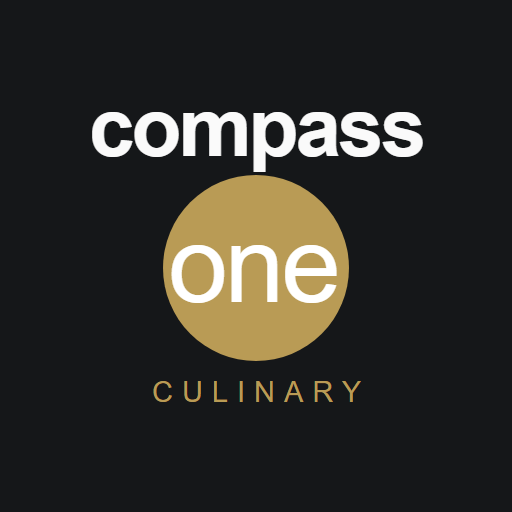
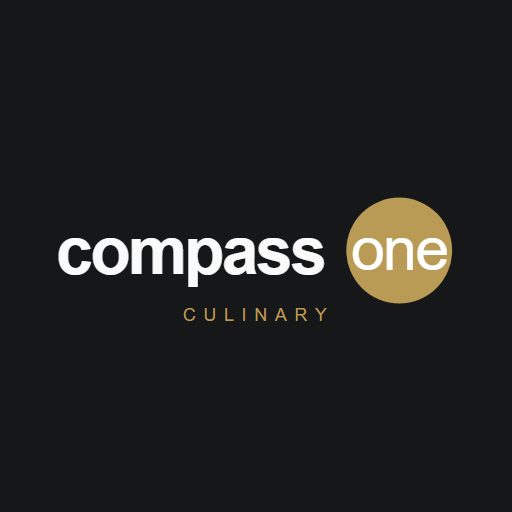
Fix installed app brand handoff

Changed region(s): [[0.0938, 0.2188, 0.9062, 0.7188], [0.4688, 0.7188, 0.7188, 0.7812], [0.2812, 0.7188, 0.4375, 0.7812]]

diff --git a/tests/browser/brand-entrance.spec.js b/tests/browser/brand-entrance.spec.js
@@ -155,3 +155,76 @@ test("mobile app and browser icon references decode at their declared sizes", as
     expect(icon.src).toContain("v=");
   }
 });
+
+for (const installedMode of ["standalone", "minimal-ui", "ios"]) {
+  test(`installed launch ${installedMode} reveals tools without a second logo`, async ({ page }) => {
+    await page.setViewportSize({ width: 390, height: 844 });
+    await page.addInitScript((mode) => {
+      if (mode === "ios") Object.defineProperty(navigator, "standalone", { value: true });
+      else {
+        const original = window.matchMedia.bind(window);
+        window.matchMedia = query => {
+          const result = original(query);
+          if (query.includes(`display-mode: ${mode}`)) Object.defineProperty(result, "matches", { value: true });
+          return result;
+        };
+      }
+    }, installedMode);
+    await page.goto("/", { waitUntil: "domcontentloaded" });
+    const entrance = page.getByTestId("brand-entrance");
+    await expect(entrance).toBeVisible();
+    expect(await entrance.locator("img, .brand-entrance__logo, .brand-entrance__backdrop").count()).toBe(0);
+    const positions = await page.evaluate(() => {
+      const animations = document.getAnimations();
+      animations.forEach(animation => { animation.pause(); animation.currentTime = 0; });
+      const top = document.querySelector('.brand-entrance__line--top');
+      const bottom = document.querySelector('.brand-entrance__line--bottom');
+      const start = { top: top.getBoundingClientRect().y, bottom: bottom.getBoundingClientRect().y };
+      animations.forEach(animation => { animation.currentTime = 300; });
+      const mid = { top: top.getBoundingClientRect().y, bottom: bottom.getBoundingClientRect().y };
+      const durations = animations.map(animation => animation.effect.getTiming().duration);
+      animations.forEach(animation => animation.play());
+      return { start, mid, durations };
+    });
+    expect(Math.abs(positions.start.top - positions.start.bottom)).toBeLessThan(1);
+    expect(positions.mid.top).toBeLessThan(positions.start.top);
+    expect(positions.mid.bottom).toBeGreaterThan(positions.start.bottom);
+    expect(positions.durations.length).toBeGreaterThan(0);
+    expect(positions.durations.every(duration => duration === 600)).toBe(true);
+    await expect(entrance).toHaveCount(0, { timeout: 1200 });
+    await expect(page.getByTestId("mobile-platform-intelligence")).toBeVisible();
+    await page.reload();
+    await expect(entrance).toHaveCount(0);
+  });
+}
+
+
+test("installed app icon preserves the approved horizontal logo composition", async ({ page }) => {
+  await page.emulateMedia({ reducedMotion: "reduce" });
+  await page.goto("/");
+  const comparison = await page.evaluate(async () => {
+    async function load(src) { const image = new Image(); image.src = src; await image.decode(); return image; }
+    const [source, actual] = await Promise.all([load('/brand/compass-one-culinary.svg'), load('/android-chrome-512x512.png')]);
+    const canvas = document.createElement('canvas'); canvas.width = canvas.height = 512;
+    const context = canvas.getContext('2d', { willReadFrequently: true });
+    context.fillStyle = '#151719'; context.fillRect(0, 0, 512, 512);
+    // The approved horizontal artwork is centered with 9% side padding; never restack its words.
+    const width = 420;
+    const height = width * source.naturalHeight / source.naturalWidth;
+    context.drawImage(source, (512 - width) / 2, (512 - height) / 2, width, height);
+    const expected = context.getImageData(0, 0, 512, 512).data;
+    context.clearRect(0, 0, 512, 512); context.drawImage(actual, 0, 0);
+    const rendered = context.getImageData(0, 0, 512, 512).data;
+    let difference = 0; let minX = 512, maxX = 0, minY = 512, maxY = 0;
+    for (let pixel = 0; pixel < rendered.length; pixel += 4) {
+      for (let channel = 0; channel < 3; channel++) difference += Math.abs(expected[pixel + channel] - rendered[pixel + channel]);
+      if (rendered[pixel] > 100 && rendered[pixel + 1] > 80) {
+        const x = (pixel / 4) % 512, y = Math.floor(pixel / 4 / 512);
+        minX = Math.min(minX, x); maxX = Math.max(maxX, x); minY = Math.min(minY, y); maxY = Math.max(maxY, y);
+      }
+    }
+    return { meanDifference: difference / (512 * 512 * 3), artworkAspect: (maxX - minX) / (maxY - minY) };
+  });
+  expect(comparison.artworkAspect).toBeGreaterThan(2.7);
+  expect(comparison.meanDifference).toBeLessThan(1.5);
+});

diff --git a/src/app/BrandEntrance.jsx b/src/app/BrandEntrance.jsx
@@ -3,6 +3,12 @@ import "./brandEntrance.css";
 
 const SESSION_KEY = "culinaryToolsBrandEntranceSeen";
 
+function isInstalledApp() {
+  return window.matchMedia("(display-mode: standalone)").matches
+    || window.matchMedia("(display-mode: minimal-ui)").matches
+    || window.navigator.standalone === true;
+}
+
 function shouldShowEntrance() {
   try {
     return !window.matchMedia("(prefers-reduced-motion: reduce)").matches
@@ -14,8 +20,9 @@ function shouldShowEntrance() {
 }
 
 export default function BrandEntrance() {
+  const [installed] = useState(isInstalledApp);
   const [visible, setVisible] = useState(shouldShowEntrance);
-  const [ready, setReady] = useState(false);
+  const [ready, setReady] = useState(installed);
 
   useEffect(() => {
     if (!visible) return undefined;
@@ -45,18 +52,21 @@ export default function BrandEntrance() {
 
   return (
     <div
-      className={`brand-entrance${ready ? " brand-entrance--ready" : ""}`}
+      className={`brand-entrance${ready ? " brand-entrance--ready" : ""}${installed ? " brand-entrance--installed" : ""}`}
       data-testid="brand-entrance"
       aria-hidden="true"
       onAnimationEnd={(event) => {
-        if (event.animationName === "brand-line-top") setVisible(false);
+        if (event.animationName === "brand-line-top" || event.animationName === "brand-line-top-reveal") setVisible(false);
       }}
     >
-      <div className="brand-entrance__backdrop" />
-      <div className="brand-entrance__logo">
-        <img src="/brand/compass-one-culinary.svg" alt="" width="1000" height="330"
-          fetchPriority="high" decoding="sync" onLoad={() => setReady(true)} onError={() => setVisible(false)} />
-      </div>
+      {/* Installed apps already show the OS logo splash. A second web logo overlaps it. */}
+      {!installed && <>
+        <div className="brand-entrance__backdrop" />
+        <div className="brand-entrance__logo">
+          <img src="/brand/compass-one-culinary.svg" alt="" width="1000" height="330"
+            fetchPriority="high" decoding="sync" onLoad={() => setReady(true)} onError={() => setVisible(false)} />
+        </div>
+      </>}
       <div className="brand-entrance__panel brand-entrance__panel--top" />
       <div className="brand-entrance__panel brand-entrance__panel--bottom" />
       <div className="brand-entrance__line brand-entrance__line--top" />

diff --git a/src/app/brandEntrance.css b/src/app/brandEntrance.css
@@ -39,13 +39,23 @@
 .brand-entrance--ready .brand-entrance__line--top { animation: brand-line-top 1200ms cubic-bezier(.76, 0, .24, 1) both; }
 .brand-entrance--ready .brand-entrance__line--bottom { animation: brand-line-bottom 1200ms cubic-bezier(.76, 0, .24, 1) both; }
 
+/* The OS splash provides the logo in installed mode; only reveal the website here. */
+.brand-entrance--installed .brand-entrance__panel { animation: brand-panels-reveal 600ms cubic-bezier(.76, 0, .24, 1) both; }
+.brand-entrance--installed .brand-entrance__line--top { animation: brand-line-top-reveal 600ms cubic-bezier(.76, 0, .24, 1) both; }
+.brand-entrance--installed .brand-entrance__line--bottom { animation: brand-line-bottom-reveal 600ms cubic-bezier(.76, 0, .24, 1) both; }
+
 @keyframes brand-logo-in { 0% { opacity: 0; } 16%, 100% { opacity: 1; } }
 @keyframes brand-panels { 0%, 22%, 100% { transform: scaleY(0); } 52% { transform: scaleY(1); } }
 @keyframes brand-hide-center { 0%, 51.99% { visibility: visible; } 52%, 100% { visibility: hidden; } }
 @keyframes brand-line-top { 0%, 22%, 100% { transform: translateY(0); } 52% { transform: translateY(calc(50vh - .5px)); } }
 @keyframes brand-line-bottom { 0%, 22%, 100% { transform: translateY(0); } 52% { transform: translateY(calc(-50vh + .5px)); } }
+@keyframes brand-panels-reveal { from { transform: scaleY(1); } to { transform: scaleY(0); } }
+@keyframes brand-line-top-reveal { from { transform: translateY(calc(50vh - .5px)); } to { transform: translateY(0); } }
+@keyframes brand-line-bottom-reveal { from { transform: translateY(calc(-50vh + .5px)); } to { transform: translateY(0); } }
 @supports (height: 100dvh) {
   @keyframes brand-line-top { 0%, 22%, 100% { transform: translateY(0); } 52% { transform: translateY(calc(50dvh - .5px)); } }
   @keyframes brand-line-bottom { 0%, 22%, 100% { transform: translateY(0); } 52% { transform: translateY(calc(-50dvh + .5px)); } }
+  @keyframes brand-line-top-reveal { from { transform: translateY(calc(50dvh - .5px)); } to { transform: translateY(0); } }
+  @keyframes brand-line-bottom-reveal { from { transform: translateY(calc(-50dvh + .5px)); } to { transform: translateY(0); } }
 }
 @media (prefers-reduced-motion: reduce) { .brand-entrance { display: none; } }

diff --git a/index.html b/index.html
@@ -7,8 +7,8 @@
     <link rel="icon" type="image/x-icon" href="/favicon.ico?v=20260914" />
     <link rel="icon" type="image/png" sizes="16x16" href="/favicon-16x16.png?v=20260914" />
     <link rel="icon" type="image/png" sizes="32x32" href="/favicon-32x32.png?v=20260914" />
-    <link rel="apple-touch-icon" sizes="180x180" href="/apple-touch-icon.png?v=20260914" />
-    <link rel="manifest" href="/site.webmanifest?v=20260914" />
+    <link rel="apple-touch-icon" sizes="180x180" href="/apple-touch-icon.png?v=20260914-2" />
+    <link rel="manifest" href="/site.webmanifest?v=20260914-2" />
     <link rel="preload" as="image" href="/brand/compass-one-culinary.svg" />
     <meta name="theme-color" content="#151719" />
   </head>

diff --git a/src/shared/appConfig.js b/src/shared/appConfig.js
@@ -1,1 +1,1 @@
-export const APP_VERSION_STAMP = "2026.09.14.001-compass-culinary-entrance";
+export const APP_VERSION_STAMP = "2026.09.14.002-installed-brand-handoff";

diff --git a/AI_HANDOFF.md b/AI_HANDOFF.md
@@ -8,9 +8,11 @@ Current deployed-but-not-live version: none.
 
 Latest resource update: September 9, 2026 published `docs/gl-mapping/Alex_Transfer_Tool_GL_Mapping_Reviewed.xlsx`, the current editable baseline for the future Transfer Tool. It was generated from the live Menu Library recipe source (`supabase-recipe-items+ssmt-derived`, 1,524 recipe rows) and applies Alex’s review of all 362 flagged first-pass mappings: 125 explicit category changes were translated to approved G/L codes, and 237 entries were accepted, including blank decisions. The workbook retains approved G/L values, review resolution/mapping basis, source menu/recipe/component traceability, 21,867 exploded Source Detail rows, and yellow future-override columns. It is a documentation/resource artifact only; no application behavior, source authority, Supabase/Smartsheet data, browser storage, version stamp, deployment, or live bundle changed.
 
-Prepared candidate (not yet committed or deployed): none.
+Prepared candidate (not yet committed or deployed): `2026.09.14.002-installed-brand-handoff`. Release state: VERIFIED; production release pending.
 
-Latest process update: September 14, 2026 published Tyler's approved Compass One Culinary branding and professional entrance as version `2026.09.14.001-compass-culinary-entrance`. Clean SVG artwork recreates the approved generated concept; a square stacked composition retains the branding for Apple/Android/PWA icons, while tiny favicons use the gold one-circle for readability. The 1,200 ms entrance starts after the logo loads, masks the logo inward, and reveals the loaded website outward. It plays once per browser session; reduced motion and unavailable session storage skip it, interaction/image errors dismiss it, and a 1,600 ms watchdog prevents blocking access. Asset provenance, regeneration, and physical-device limitations are documented in `docs/brand/README.md`. No backend, shared data, schema, or source-authority change. Validation: full `pnpm run verify` passed twice including the production build; independent Verifier passed the final 14/14 browser checks locally and 14/14 against production (11 branding, 2 landing-section, and 1 changelog test), including rendered geometry, screenshots, sequence, failure paths, and icon checks. Reviewer rechecked the resolved geometry finding and issued APPROVED WITH NON-BLOCKING NOTES. Application commit `84a84ff7af1c6152bc037a02f2380dc65d17f3cd` was pushed at 8:36:43 AM PT; Vercel production deployment `dpl_6uwhqQCtA6AXxmC3PN2zLL18bKyr` reached READY at 8:37:05 AM PT (`https://project-d8v25-najt6a0cx-tylerl-s-projects.vercel.app`). Public alias `https://project-d8v25.vercel.app` serves `/assets/index-CSI6q3Cp.js` with the approved version; all eight brand/icon assets match local SHA256 values (8:37:28 AM PT evidence), and the error/fatal runtime scan through 8:37:56 AM PT was clear. Scribe affirmatively reconciled version, release identity, verification, and durable records. Release state: LIVE. Prior production rollback reference, verified by Release before this work: GitHub main `92fcad1613c11b9ff8c5af1ea9ba4db5f3b9b620`, Vercel READY `dpl_2no7CvJV8f8cG98E6rA5gFFim4x8`, version `2026.09.11.001-home-compact-grid`.
+Latest process update: September 14, 2026 implemented Tyler's requested installed-mobile branding correction, version `2026.09.14.002-installed-brand-handoff`. Tyler's Android startup screenshot showed the stacked native app-icon splash followed by the website's horizontal logo. App icons now derive the unchanged approved horizontal SVG artwork into a padded square instead of rearranging it; icon URLs use cache revision `v=20260914-2`. Installed standalone/minimal-ui and iOS standalone launch modes omit the second website logo and use only a 600 ms outward reveal. Normal browser entrance remains 1,200 ms. No backend or data behavior changed. Full `pnpm run verify` passed including the production build. The focused browser suite passed 18/18 after three installed-mode tests first failed against the duplicate logo; coverage includes normal browser behavior, all three installed-mode signals, 600 ms reveal geometry, failure paths, landing layout, and an independent pixel comparison that rejects the stacked icon composition. Reviewer issued APPROVED. Release state: VERIFIED; production release pending. Browser display-mode emulation and icon-pixel checks are not proof of actual native Android/iOS startup, which has not been device-tested. Rollback reference: `.001` app `84a84ff7af1c6152bc037a02f2380dc65d17f3cd`, docs-only main `37393038e8089060b55e0bf4d41c817e1917649c`, READY deployment `dpl_yp4j35QD81p63cfZ4sPbNZwbQ9bc`.
+
+Previous process update: September 14, 2026 published Tyler's approved Compass One Culinary branding and professional entrance as version `2026.09.14.001-compass-culinary-entrance`. Clean SVG artwork recreates the approved generated concept; a square stacked composition retains the branding for Apple/Android/PWA icons, while tiny favicons use the gold one-circle for readability. The 1,200 ms entrance starts after the logo loads, masks the logo inward, and reveals the loaded website outward. It plays once per browser session; reduced motion and unavailable session storage skip it, interaction/image errors dismiss it, and a 1,600 ms watchdog prevents blocking access. Asset provenance, regeneration, and physical-device limitations are documented in `docs/brand/README.md`. No backend, shared data, schema, or source-authority change. Validation: full `pnpm run verify` passed twice including the production build; independent Verifier passed the final 14/14 browser checks locally and 14/14 against production (11 branding, 2 landing-section, and 1 changelog test), including rendered geometry, screenshots, sequence, failure paths, and icon checks. Reviewer rechecked the resolved geometry finding and issued APPROVED WITH NON-BLOCKING NOTES. Application commit `84a84ff7af1c6152bc037a02f2380dc65d17f3cd` was pushed at 8:36:43 AM PT; Vercel production deployment `dpl_6uwhqQCtA6AXxmC3PN2zLL18bKyr` reached READY at 8:37:05 AM PT (`https://project-d8v25-najt6a0cx-tylerl-s-projects.vercel.app`). Public alias `https://project-d8v25.vercel.app` serves `/assets/index-CSI6q3Cp.js` with the approved version; all eight brand/icon assets match local SHA256 values (8:37:28 AM PT evidence), and the error/fatal runtime scan through 8:37:56 AM PT was clear. Scribe affirmatively reconciled version, release identity, verification, and durable records. Release state: LIVE. Prior production rollback reference, verified by Release before this work: GitHub main `92fcad1613c11b9ff8c5af1ea9ba4db5f3b9b620`, Vercel READY `dpl_2no7CvJV8f8cG98E6rA5gFFim4x8`, version `2026.09.11.001-home-compact-grid`.
 
 Previous process update: September 11, 2026 published Alex’s Option A `Compact Grid` homepage redesign as application commit `3948cd0738672873b838d772c1cd0bfea11963f7`, version `2026.09.11.001-home-compact-grid`. Desktop now presents all 10 existing tools directly in compact full-width grids: the six Chef Tools remain in their established order and the four Programming & Auditing tools remain in their established order. The former always-open analytics area is now a closed-by-default, keyboard-operable `Platform Intelligence` disclosure at the bottom, followed by a closed-by-default `Operations Console` disclosure containing tool/source summary metrics. Mobile mirrors the hierarchy with a contained two-column compact card grid and the same two bottom disclosures; existing mobile navigation and every tool route remain available. Menu Projects, Menu Audit Tool, and Lean Tool remain directly accessible. The original three-concept design board is retained as `docs/design/culinary-tools-homepage-redesign-concepts-v1.png` for design traceability and is not bundled into the app. Added landing-page browser coverage for exact tool order, semantic and visual disclosure order, disclosure default/open state, 320px two-column mobile geometry, title containment, and zero horizontal overflow. Full `pnpm run verify` passed, focused landing-page Playwright passed 3/3 locally and 3/3 against production, independent Reviewer approved the corrected visual/DOM/keyboard order, independent Verifier cleared the complete candidate, and Scribe affirmed the prepared records. Vercel production deployment `dpl_2dW9bLhQL7a4Z8pciLR4BZKz4Gnp` reached `READY`; live asset `/assets/index-CSLMjFfS.js` contains the new version and Compact Grid markers, and the post-deploy error/fatal log scan was clean. No data-source, Supabase, Smartsheet, schema, or production-data behavior changes. Release state: LIVE.
 

diff --git a/docs/brand/README.md b/docs/brand/README.md
@@ -3,19 +3,21 @@
 Tyler approved the generated Compass One Culinary concept in the September 14, 2026 Codex task and authorized implementation and deployment. The approved source concept is retained by the task at `outputs/approved-compass-culinary-concept.png`; it is not a pre-existing corporate vector master. The production SVGs are clean native recreations of that approved visual concept, preserving lowercase lettering, the gold circle, white wordmark, and spaced CULINARY subtitle.
 
 - `public/brand/compass-one-culinary.svg`: horizontal entrance/header artwork.
-- `public/brand/compass-one-culinary-icon.svg`: square, stacked app-icon composition with dark background and crop padding.
+- `public/brand/compass-one-culinary-icon.svg`: square app-icon canvas containing the unchanged horizontal artwork with dark background and crop padding; supersedes the initial stacked composition.
 - `public/apple-touch-icon.png`: 180px Apple touch icon.
 - `public/android-chrome-192x192.png` and `public/android-chrome-512x512.png`: Android/PWA icons.
 - `public/favicon-16x16.png`, `public/favicon-32x32.png`, and `public/favicon.ico`: gold one-circle at small sizes for readability.
 
 ## Regeneration
 
-Install the project dependencies and provide Playwright Chromium. Run `node scripts/build-brand-icons.mjs` from the repository root. If Chromium is held in a shared runtime, set `PLAYWRIGHT_BROWSERS_PATH` to that runtime's browser-cache directory before running the script; this is an environment-specific path, not a committed machine setting. The script renders the SVG with Playwright at each output size and packages 16/32/48px PNG representations into the ICO. Regeneration overwrites the listed raster icons.
+Install the project dependencies and provide Playwright Chromium. Run `node scripts/build-brand-icons.mjs` from the repository root. If Chromium is held in a shared runtime, set `PLAYWRIGHT_BROWSERS_PATH` to that runtime's browser-cache directory before running the script; this is an environment-specific path, not a committed machine setting. The script extracts the horizontal SVG artwork as a single group, centers and scales it into a square canvas without rearranging its words, writes the derived icon SVG, and renders it with Playwright at each output size and packages 16/32/48px PNG representations into the ICO. Regeneration overwrites the listed raster icons.
 
 ## Behavior and verification limits
 
-Version `2026.09.14.001-compass-culinary-entrance` introduces a 1,200 ms once-per-session entrance. Reduced motion, unavailable session storage, interaction, image error, and a 1,600 ms watchdog keep the site accessible. Browser emulation and asset/configuration checks are distinct from physical-device installation testing: physical iOS/Android home-screen installation has not been tested. Existing installed or saved home-screen icons can remain cached; users may need to remove the shortcut and add the site to their home screen again to see the new artwork.
+Version `2026.09.14.002-installed-brand-handoff` keeps the 1,200 ms once-per-session entrance in normal browser mode. Installed standalone/minimal-ui and iOS `navigator.standalone` modes omit the second website logo and use only a 600 ms outward reveal, allowing the browser/OS native splash to supply the launch branding. Icon references use `v=20260914-2` to request the revised horizontal composition. Reduced motion, unavailable session storage, interaction, image error, and a 1,600 ms watchdog keep the site accessible. Mocked browser display-mode and icon-pixel checks are distinct from physical-device installation/startup testing: physical iOS/Android home-screen installation has not been tested. Existing installed or saved home-screen icons can remain cached; users may need to remove the shortcut and add the site to their home screen again to see the new artwork.
 
 Production: https://project-d8v25.vercel.app
 Repository: https://github.com/leisstyler-hub/menu-engineering-dashboard
 Release evidence and exact current state are recorded in `AI_HANDOFF.md` and `CHANGELOG.md`.
+
+Chrome builds its native splash from the manifest icon and other metadata: [Web app manifest](https://web.dev/articles/add-manifest). Installed metadata refresh is browser-controlled; cached installations may require reinstalling: [Updating a PWA](https://web.dev/learn/pwa/update). Changing the web overlay cannot suppress a native splash already rendered by the operating system.

diff --git a/CHANGELOG.md b/CHANGELOG.md
@@ -2,6 +2,8 @@
 
 ## 2026-09-14
 
+- [Sep 14, 8:48 AM] Prepared Tyler's installed-mobile branding correction as `2026.09.14.002-installed-brand-handoff`: regenerated square app icons directly from the unchanged approved horizontal logo, superseding the stacked composition, and revised icon URLs to `v=20260914-2`. Installed standalone/minimal-ui and iOS standalone modes now omit the second website logo and use a 600 ms outward reveal; normal browser entrance remains 1,200 ms. This addresses the native icon splash followed by duplicate website branding shown in Tyler's Android screenshot. No backend or data changes. Full `pnpm run verify` passed including the production build; the focused browser suite passed 18/18 after its three installed-mode regressions first failed against the duplicate logo. Reviewer issued APPROVED. Actual native-device startup and installed icon refresh have not been tested. Release state: VERIFIED, not LIVE.
+
 - [Sep 14, 8:38 AM] Published Tyler's approved Compass One Culinary logo, mobile home-screen icons, and restrained 1,200 ms branded entrance as version `2026.09.14.001-compass-culinary-entrance`. The clean SVG recreates the approved generated concept; square app icons retain the brand and tiny favicons use the gold one-circle. Two fine lines mask the logo inward and reveal the website outward in one continuous motion. Entrance playback waits for image load, occurs once per session, skips reduced motion or blocked session storage, dismisses on interaction or image error, and includes a 1,600 ms watchdog. Added asset provenance and reproducible icon generation instructions in `docs/brand/README.md`. Physical installed-device icon behavior is not yet tested; existing saved icons may require removal and re-addition. No backend, shared data, schema, source-authority, or production-data changes. Full `pnpm run verify` passed twice including the production build; independent Verifier passed 14/14 locally and 14/14 against production (11 branding, 2 landing-section, and 1 changelog test), including sequence, layout, failure paths, and icons. Reviewer issued APPROVED WITH NON-BLOCKING NOTES after rechecking the resolved geometry finding. Application commit `84a84ff7af1c6152bc037a02f2380dc65d17f3cd` was pushed at 8:36:43 AM PT; Vercel production deployment `dpl_6uwhqQCtA6AXxmC3PN2zLL18bKyr` reached READY at 8:37:05 AM PT. The public alias serves `/assets/index-CSI6q3Cp.js` with the approved version, all eight live brand/icon assets match local SHA256 values, and the error/fatal runtime scan through 8:37:56 AM PT was clear. Scribe affirmatively reconciled the production evidence and durable records. Rollback reference: prior main `92fcad1613c11b9ff8c5af1ea9ba4db5f3b9b620`, Vercel READY `dpl_2no7CvJV8f8cG98E6rA5gFFim4x8`, version `2026.09.11.001-home-compact-grid`. Release state: LIVE.
 
 ## 2026-09-11

diff --git a/PRODUCT_DECISIONS.md b/PRODUCT_DECISIONS.md
@@ -10,6 +10,9 @@ When a mission produces an approved product decision, Scribe adds an entry below
 
 ## Decisions
 
+### 2026-09-14 - Installed-mobile branding correction
+After sharing an Android startup screenshot, Tyler requested removing the stacked logo, using the approved horizontal logo for the phone icon, and smoothing mobile startup. This supersedes the earlier square stacked app-icon interpretation: icon generation must derive the same unchanged horizontal artwork into the square canvas without rearranging the wordmark. Installed-app mode should avoid presenting another website logo after the operating system's native splash and instead use a short outward reveal. Normal browser entrance remains unchanged. Native splash rendering belongs to the browser/OS; browser emulation cannot establish physical-device startup behavior. Requesting Admin / Admin of Record / Release-Authorized Admin: Tyler. This correction and deployment remain within the explicitly authorized branding task.
+
 ### 2026-09-14 - Compass One Culinary branding and entrance
 Tyler approved the generated Compass One Culinary logo concept and requested using it for the mobile home-screen app icon and the website entrance. The approved direction is modern, professional, smooth, and understated: briefly show the centered logo, move two fine horizontal lines inward to mask it away, and immediately separate them to reveal the website. The complete entrance should last 1-1.2 seconds, run once per browser session, and skip reduced-motion preferences. Preserve the lowercase wordmark, gold circle, white lettering, and spaced CULINARY subtitle; adapt the composition for square app icons without distortion. The implementation uses a clean SVG recreation of the approved concept. Tyler explicitly authorized execution and deployment in the Codex task: "ok i actually want you to execute this deploy - go". Requesting Admin / Admin of Record / Release-Authorized Admin: Tyler.
 
